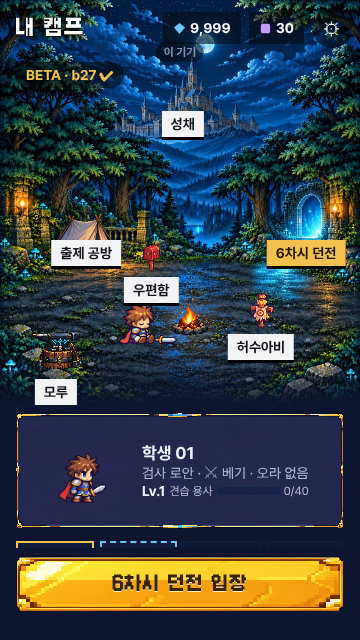
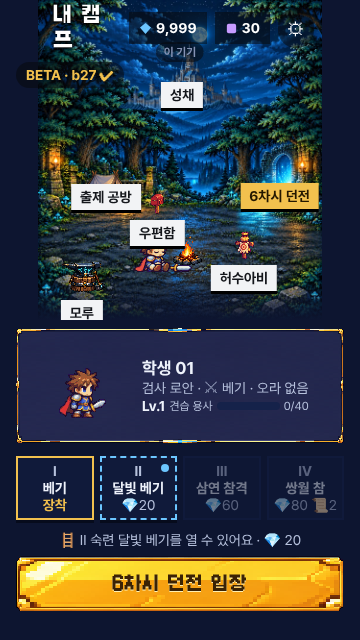
b28 #145 엑셀 파일 이름 · 캠프 360 × 640 겹침 0
- 대시보드 엑셀 = 모두의던전_반_날짜.xlsx (전체 = 모두의던전_전체_날짜.xlsx)
  「download」 로 받아지던 것 = 시험 브라우저에 UTF-8 언어 설정이 없어서(실제 폰은 그대로) → 시험 브라우저 설정 고침
- 캠프: 화면이 짧으면 장면만 비율 그대로 줄여 가운데 · 정보판 · 주요 단추는 늘 같은 자리(11 테마 겹침 0 시험)
- 클래식 「내 캠프」 줄바꿈 없음

Claude-Session: https://claude.ai/code/session_014JJv1kfRHM8SAjsHDCgfJ5

diff --git a/src/ui/camp/Camp.svelte b/src/ui/camp/Camp.svelte
@@ -138,6 +138,8 @@
 </script>
 
 <div class="camp">
+  <!-- #145 ② 짧은 화면(360 × 640 등): 장면만 비율 그대로 줄여 가운데 · 정보판 · 주요 단추는 늘 같은 자리(겹침 0) -->
+  <div class="stagebox" style:--ar={W / H}>
   <div class="stage" role="presentation" onclick={ground} style:aspect-ratio="{W} / {H}" style:background-image="url({CAMP.bg})">
     <img class="obj" alt="" src={CAMP.castle.src} style={objStyle(CAMP.castle)} />
     <img class="obj lit" class:on={sheet === 'castle'} alt="" src={CAMP.castle.lit} style={objStyle(CAMP.castle)} />
@@ -167,6 +169,7 @@
       <button type="button" class="gear" aria-label="설정" onclick={() => (sheet = 'set')}>⚙</button>
     </div>
     {#if mailToast}<p class="gtoast mail" role="status">{mailToast}</p>{:else if giftToast}<p class="gtoast" role="status">{giftToast}</p>{/if}
+  </div>
   </div>
 
   <section class="info">
@@ -232,8 +235,11 @@
   .cin:focus { border-color: var(--accent); outline: none; }
   .cerr { margin: 0; color: var(--bad); font-size: 14px; font-weight: 700; }
   .cgo { min-height: 52px; border: 0; border-radius: 14px; background: var(--accent); color: var(--on-accent); font: 700 17px var(--font); box-shadow: 0 3px 0 var(--accent-sh); }
-  .camp { max-width: 430px; margin: 0 auto; }
-  .stage { position: relative; width: 100%; background-size: 100% 100%; overflow: hidden; }
+  .camp { max-width: 430px; margin: 0 auto; height: 100dvh; display: flex; flex-direction: column; overflow: hidden; }
+  .stagebox { flex: 1 1 auto; min-height: 0; container-type: size; display: flex; justify-content: center; align-items: flex-start; }
+  .camp > :global(.act) { flex: none; }
+  .info { flex: none; }
+  .stage { position: relative; width: min(100cqw, 100cqh * var(--ar)); flex: none; background-size: 100% 100%; overflow: hidden; }
   .stage::after { content: ''; position: absolute; left: 0; right: 0; bottom: 0; height: 40px; background: linear-gradient(transparent, var(--bg)); pointer-events: none; z-index: 4; }
   .obj { position: absolute; z-index: 1; pointer-events: none; }
   .obj.lit { opacity: 0; transition: opacity 0.4s; }
@@ -259,7 +265,7 @@
   .gtoast.mail { border-color: var(--accent); }
   .gtoast { position: absolute; top: 60px; left: var(--s4); right: var(--s4); z-index: 7; margin: 0; padding: var(--s2) var(--s3); border-radius: var(--r); background: var(--surface); border: 1px solid var(--gem); color: var(--text); font-weight: 700; text-align: center; }
   .top { position: absolute; top: 0; left: 0; right: 0; z-index: 6; height: var(--bar-top); display: flex; align-items: center; gap: var(--s2); padding: 0 var(--s3) 0 var(--s4); }
-  .ttl { color: #fff; font-size: var(--fs-title); text-shadow: 0 1px 2px #000, 0 0 6px rgba(0, 0, 0, 0.8); }
+  .ttl { color: #fff; font-size: var(--fs-title); text-shadow: 0 1px 2px #000, 0 0 6px rgba(0, 0, 0, 0.8); white-space: nowrap; flex: none; }
   .sp2 { flex: 1; }
   .gear { width: 40px; height: 40px; margin: 0 -4px 0 0; position: relative; border: 0; border-radius: 20px; background: rgba(8, 9, 12, 0.55); color: #fff; font-size: 18px; display: grid; place-items: center; }
   .gear::before { content: ''; position: absolute; inset: -4px; }

diff --git a/src/ui/teacher/Dash.svelte b/src/ui/teacher/Dash.svelte
@@ -21,7 +21,7 @@
   let withX = $state(false), xlPick = $state<'all' | 'cls' | 'view'>('cls'), toast = $state('');
   const ymd = () => { const d = new Date(); return `${d.getFullYear()}-${String(d.getMonth() + 1).padStart(2, '0')}-${String(d.getDate()).padStart(2, '0')}`; };
   function excel() {
-    const name = `모두의던전_대시보드_${xlPick === 'all' ? '전체' : cls}_${ymd()}.xlsx`;
+    const name = `모두의던전_${xlPick === 'all' ? '전체' : cls}_${ymd()}.xlsx`;
     let sheets;
     if (xlPick === 'all') sheets = [toSheet(view(S, ALL, 'cmp', withX), withX), ...CLASSES.filter((c) => withX || !isBeta(S, c)).map((c) => ({ ...toSheet(view(S, c, 'grid', withX), withX), name: `${c}반` }))];
     else if (xlPick === 'cls') sheets = ALL_VIEWS.filter((v) => cls === ALL || v !== 'cmp').map((v) => toSheet(view(S, cls, v, withX), withX));
@@ -66,7 +66,7 @@
     <button type="button" class="xo" class:on={xlPick === 'cls'} disabled={cls === ALL} onclick={() => (xlPick = 'cls')}><span>{cls === ALL ? '—' : cls}</span><span><b>지금 반만</b><small>{cls === ALL ? '반 칩을 고르면' : `${cls}반 보기 11개를 시트로`}</small></span></button>
     <button type="button" class="xo" class:on={xlPick === 'view'} onclick={() => (xlPick = 'view')}><span>📄</span><span><b>지금 보는 표만</b><small>{V.title} · 시트 1개</small></span></button>
     <label class="ck"><input type="checkbox" bind:checked={withX} /> 🧪 베타 반 · 시험 계정도 넣기 (「구분」 열)</label>
-    <small class="fn">파일 · 모두의던전_대시보드_{xlPick === 'all' ? '전체' : cls}_{ymd()}.xlsx · 기기 안에서 바로 만들어요(서버로 안 보냄)</small>
+    <small class="fn">파일 · 모두의던전_{xlPick === 'all' ? '전체' : cls}_{ymd()}.xlsx · 기기 안에서 바로 만들어요(서버로 안 보냄)</small>
   </Sheet>
 {/if}
 {#if toast}<p class="toast" role="status">{toast}</p>{/if}

diff --git a/src/build.ts b/src/build.ts
@@ -1,2 +1,2 @@
 // 판 번호 (테스트 버전 b1 · b2 …) — 바꿀 때 package.json version 도 같이
-export const BUILD = 'b27';
+export const BUILD = 'b28';
